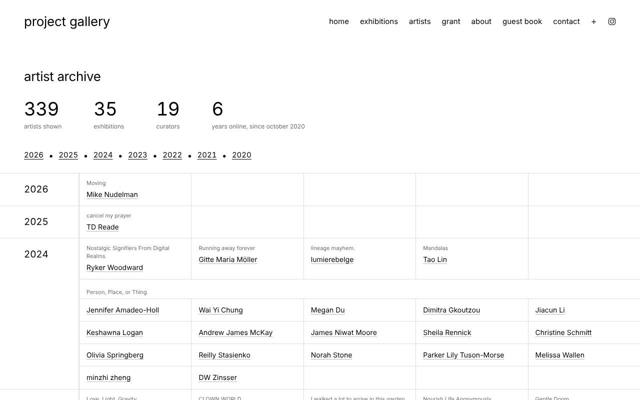
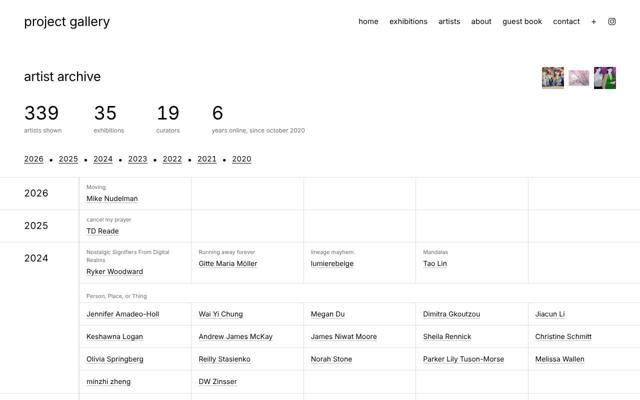
About: names link to websites and reveal work in the empty right side; artist archive peek squares; grant hidden from menu with a secret link on years
Claude-Session: https://claude.ai/code/session_01JDvyBS7JT6BmRY19jA3qLE

diff --git a/index.html b/index.html
@@ -371,6 +371,21 @@ body.arriving #view-show { animation: arrive 1.4s cubic-bezier(.16, .8, .3, 1) b
 .secret-note { position: fixed; left: 50%; bottom: 28px; transform: translateX(-50%); background: var(--ink); color: var(--bg); font-size: 12px; padding: 8px 14px; z-index: 70; opacity: 0; transition: opacity .3s; pointer-events: none; }
 .secret-note.on { opacity: 1; }
 
+.people { margin-top: 44px; }
+.person a.who { color: var(--accent); }
+.about-reveal { position: fixed; pointer-events: none; opacity: 0; transform: scale(.98); transition: opacity .45s ease, transform .45s ease; z-index: 5; }
+.about-reveal.on { opacity: 1; transform: none; }
+.about-reveal img { display: block; max-width: 100%; max-height: 100%; box-shadow: 0 6px 30px rgba(0, 0, 0, 0.12); }
+@media (max-width: 720px) { .about-reveal { display: none; } }
+
+.aa-head { display: flex; justify-content: space-between; align-items: flex-start; gap: 24px; }
+.aa-peek { display: flex; gap: 8px; margin-top: 48px; }
+.aa-peek span { position: relative; width: 44px; height: 44px; overflow: hidden; background: #f3f3f3; }
+.aa-peek img { position: absolute; inset: 0; width: 100%; height: 100%; object-fit: cover; opacity: 0; transition: opacity 1.2s ease; }
+.aa-peek img.on { opacity: 1; }
+
+a.secret { color: inherit; text-decoration: none; cursor: text; }
+
 /* contact form */
 .contact-grid { display: grid; grid-template-columns: 1fr 1.3fr; gap: clamp(32px, 6vw, 96px); align-items: start; }
 .cf { display: grid; gap: 14px; max-width: 560px; }
@@ -429,7 +444,6 @@ footer a:hover { color: var(--accent); }
     <a href="/" data-view="home">home</a>
     <a href="/exhibitions" data-view="exhibitions">exhibitions</a>
     <a href="/artists" data-view="artists">artists</a>
-    <a href="/grant" data-view="grant">grant</a>
     <a href="/about" data-view="about">about</a>
     <a href="/guestbook" data-view="guestbook">guest book</a>
     <a href="/contact" data-view="contact">contact</a>
@@ -492,7 +506,7 @@ footer a:hover { color: var(--accent); }
 
   <!-- ARTISTS -->
   <section class="view" id="view-artists">
-    <h1 class="page-title">artist archive</h1>
+    <div class="aa-head"><h1 class="page-title">artist archive</h1><div class="aa-peek" id="aa-peek" aria-hidden="true"><span></span><span></span><span></span></div></div>
     <div class="counters" id="aa-counters"></div>
     <nav class="year-jump" id="aa-years" aria-label="jump to a year"></nav>
     <p class="aa-progress" id="aa-progress"></p>
@@ -516,8 +530,8 @@ footer a:hover { color: var(--accent); }
       <p>pg hosts curated exhibitions organized by Trinity Lester. pg is based in new york city but functions primarily online, with select infrequent in-person exhibitions in brooklyn, ny.</p>
       <p class="notice">project gallery is going through website updates. we are in the process of moving our older exhibitions into an archive on the new site. please be patient, and check that your old links still work if they are on your cv or elsewhere.</p>
     </div>
-    <h2 class="sub-head">leadership</h2>
     <div class="people" id="people"></div>
+    <div class="about-reveal" id="about-reveal" aria-hidden="true"><img alt=""></div>
   </section>
 
   <!-- GUEST BOOK -->
@@ -771,6 +785,27 @@ function countUp(el, to, ms) {
   requestAnimationFrame(step);
 }
 let countersDone = false;
+// every artwork picture the new site holds, for the little squares on the artist archive
+function siteArt() {
+  const set = new Set();
+  Object.values(SHOWS).forEach(sh => sh.works.forEach(w => set.add(w.image)));
+  (TICKER || []).forEach(t => set.add(t.image));
+  return [...set];
+}
+let peekTimer = null;
+function startPeek() {
+  const art = siteArt(), slots = [...document.querySelectorAll("#aa-peek span")];
+  if (!art.length || !slots.length) return;
+  const pick = () => art[Math.floor(Math.random() * art.length)];
+  const swap = slot => {
+    const old = slot.querySelector("img.on"), im = new Image();
+    im.alt = ""; im.onload = () => { slot.appendChild(im); requestAnimationFrame(() => im.classList.add("on")); if (old) { old.classList.remove("on"); setTimeout(() => old.remove(), 1300); } };
+    im.src = pick();
+  };
+  slots.forEach(swap);
+  clearInterval(peekTimer);
+  if (!reduceMotion) { let i = 0; peekTimer = setInterval(() => swap(slots[i++ % slots.length]), 2600); }
+}
 /* exploring: remember which artist pages a visitor has opened (in their browser only) */
 const SEEN = "pg-artists-seen", AWARDS = "pg-awards";
 function getSeen() { try { return new Set(JSON.parse(localStorage.getItem(SEEN)) || []); } catch (e) { return new Set(); } }
@@ -868,9 +903,9 @@ function renderArtists() {
   Object.values(SHOW_CARDS).forEach(c => { const m = /^(?:curated|juried) by (.+)$/.exec(c.note || ""); if (m) m[1].split(/ and |, /).forEach(n => curators.add(n.trim())); });
   const since = new Date(2020, 9, 1), now = new Date();
   const years = now.getFullYear() - since.getFullYear() - (now.getMonth() < since.getMonth() ? 1 : 0);
-  const C = [[people.size, "artists shown"], [order.length, "exhibitions"], [curators.size, "curators"], [years, "years online, since october 2020"]];
+  const C = [[people.size, "artists shown"], [order.length, "exhibitions"], [curators.size, "curators"], [years, '<a class="secret" href="/grant">years</a> online, since october 2020']];
   const box = document.getElementById("aa-counters");
-  box.innerHTML = C.map(([n, l]) => `<div class="counter"><b>${n}</b><span>${esc(l)}</span></div>`).join("");
+  box.innerHTML = C.map(([n, l]) => `<div class="counter"><b>${n}</b><span>${l.startsWith("<a") ? l : esc(l)}</span></div>`).join("");
 
 
   // year links
@@ -1524,36 +1559,41 @@ document.getElementById("ex-archive").addEventListener("mouseover", e => {
 /* about: leadership (names show a picture on hover) */
 function renderPeople() {
   const box = document.getElementById("people");
+  const site = p => ((p.links || []).find(l => l.text === "website" && l.url) || {}).url;
   box.innerHTML = (LEADERSHIP || []).map((p, i) => `<div class="person">
-      <p><span class="who" data-i="${i}">${esc(p.name)}</span> ${esc(p.bio)}</p>
+      <p>${site(p) ? `<a class="who" data-i="${i}" href="${esc(site(p))}" target="_blank" rel="noopener">${esc(p.name)}</a>` : `<span class="who" data-i="${i}">${esc(p.name)}</span>`} ${esc(p.bio)}</p>
       <div class="links">${(p.links || []).filter(l => l.url).map(l => `<a href="${esc(l.url)}" target="_blank" rel="noopener">${esc(l.text)}</a>`).join("")}</div>
     </div>`).join("");
-  const pv = document.getElementById("nav-preview"), pvImg = pv.querySelector("img");
+  // hovering a name reveals their work, centred in the empty space to the right of the text
+  const rv = document.getElementById("about-reveal"), rvImg = rv.querySelector("img");
   box.querySelectorAll(".who").forEach(w => {
     const p = LEADERSHIP[w.dataset.i];
     w.addEventListener("mouseenter", () => {
       if (!p.image) return;
-      pvImg.src = p.image; const r = w.getBoundingClientRect();
-      const col = box.getBoundingClientRect();                 // beside the text, never on top of it
-      pv.style.top = Math.max(16, r.top - 10) + "px"; pv.style.left = Math.min(window.innerWidth - 276, col.right + 32) + "px";
-      pv.classList.add("on");
+      rvImg.src = p.image;
+      const textRight = box.getBoundingClientRect().right, gutter = 48;
+      const left = textRight + gutter, right = window.innerWidth - gutter, top = 110, bottom = window.innerHeight - 60;
+      const w0 = Math.max(160, right - left), h0 = Math.max(160, bottom - top);
+      const size = Math.min(w0 * 0.8, h0 * 0.8, 520);
+      rv.style.width = size + "px"; rv.style.height = size + "px";
+      rv.style.left = (left + (w0 - size) / 2) + "px"; rv.style.top = (top + (h0 - size) / 2) + "px";
+      rv.style.display = "grid"; rv.style.placeItems = "center";
+      rv.classList.add("on");
     });
-    w.addEventListener("mouseleave", () => pv.classList.remove("on"));
+    w.addEventListener("mouseleave", () => rv.classList.remove("on"));
   });
-  // a secret: click "Trinity Lester" three times quickly to collect every award in this browser
-  const me = [...box.querySelectorAll(".who")].find(w => /trinity/i.test(w.textContent));
-  if (me) {
-    let clicks = [];
-    me.addEventListener("click", () => {
-      const now = Date.now(); clicks = clicks.filter(t => now - t < 1500); clicks.push(now);
-      if (clicks.length >= 3) {
-        clicks = [];
-        const got = getAwards(); Object.keys(AWARD_LIST).forEach(id => { if (!got[id]) got[id] = now; });
-        try { localStorage.setItem(AWARDS, JSON.stringify(got)); } catch (e) {}
-        const n = document.getElementById("secret-note"); n.classList.add("on"); setTimeout(() => n.classList.remove("on"), 2600);
-      }
-    });
-  }
+  // a secret: click the word "about" at the top three times quickly to collect every award in this browser
+  const title = document.querySelector("#view-about .page-title");
+  let clicks = [];
+  title.addEventListener("click", () => {
+    const now = Date.now(); clicks = clicks.filter(t => now - t < 1500); clicks.push(now);
+    if (clicks.length >= 3) {
+      clicks = [];
+      const got = getAwards(); Object.keys(AWARD_LIST).forEach(id => { if (!got[id]) got[id] = now; });
+      try { localStorage.setItem(AWARDS, JSON.stringify(got)); } catch (e) {}
+      const n = document.getElementById("secret-note"); n.classList.add("on"); setTimeout(() => n.classList.remove("on"), 2600);
+    }
+  });
 }
 
 /* contact form: writes an email to the gallery in the visitor's own email app */
@@ -1638,6 +1678,7 @@ function show() {
   document.getElementById("award").classList.remove("open");
   if (backdrop.classList.contains("open") && !document.body.classList.contains("entering")) { backdrop.classList.remove("shown", "open"); target = 1; }
   if (name === "collection") renderCollection();
+  if (name === "artists") startPeek(); else clearInterval(peekTimer);
   if (name === "guestbook") renderGuestbook();
   if (name === "home" && lastView !== "home") typeLogo();
   if (name === "home" && HOME_STYLE === "cloud") startCloud(); else stopCloud();
